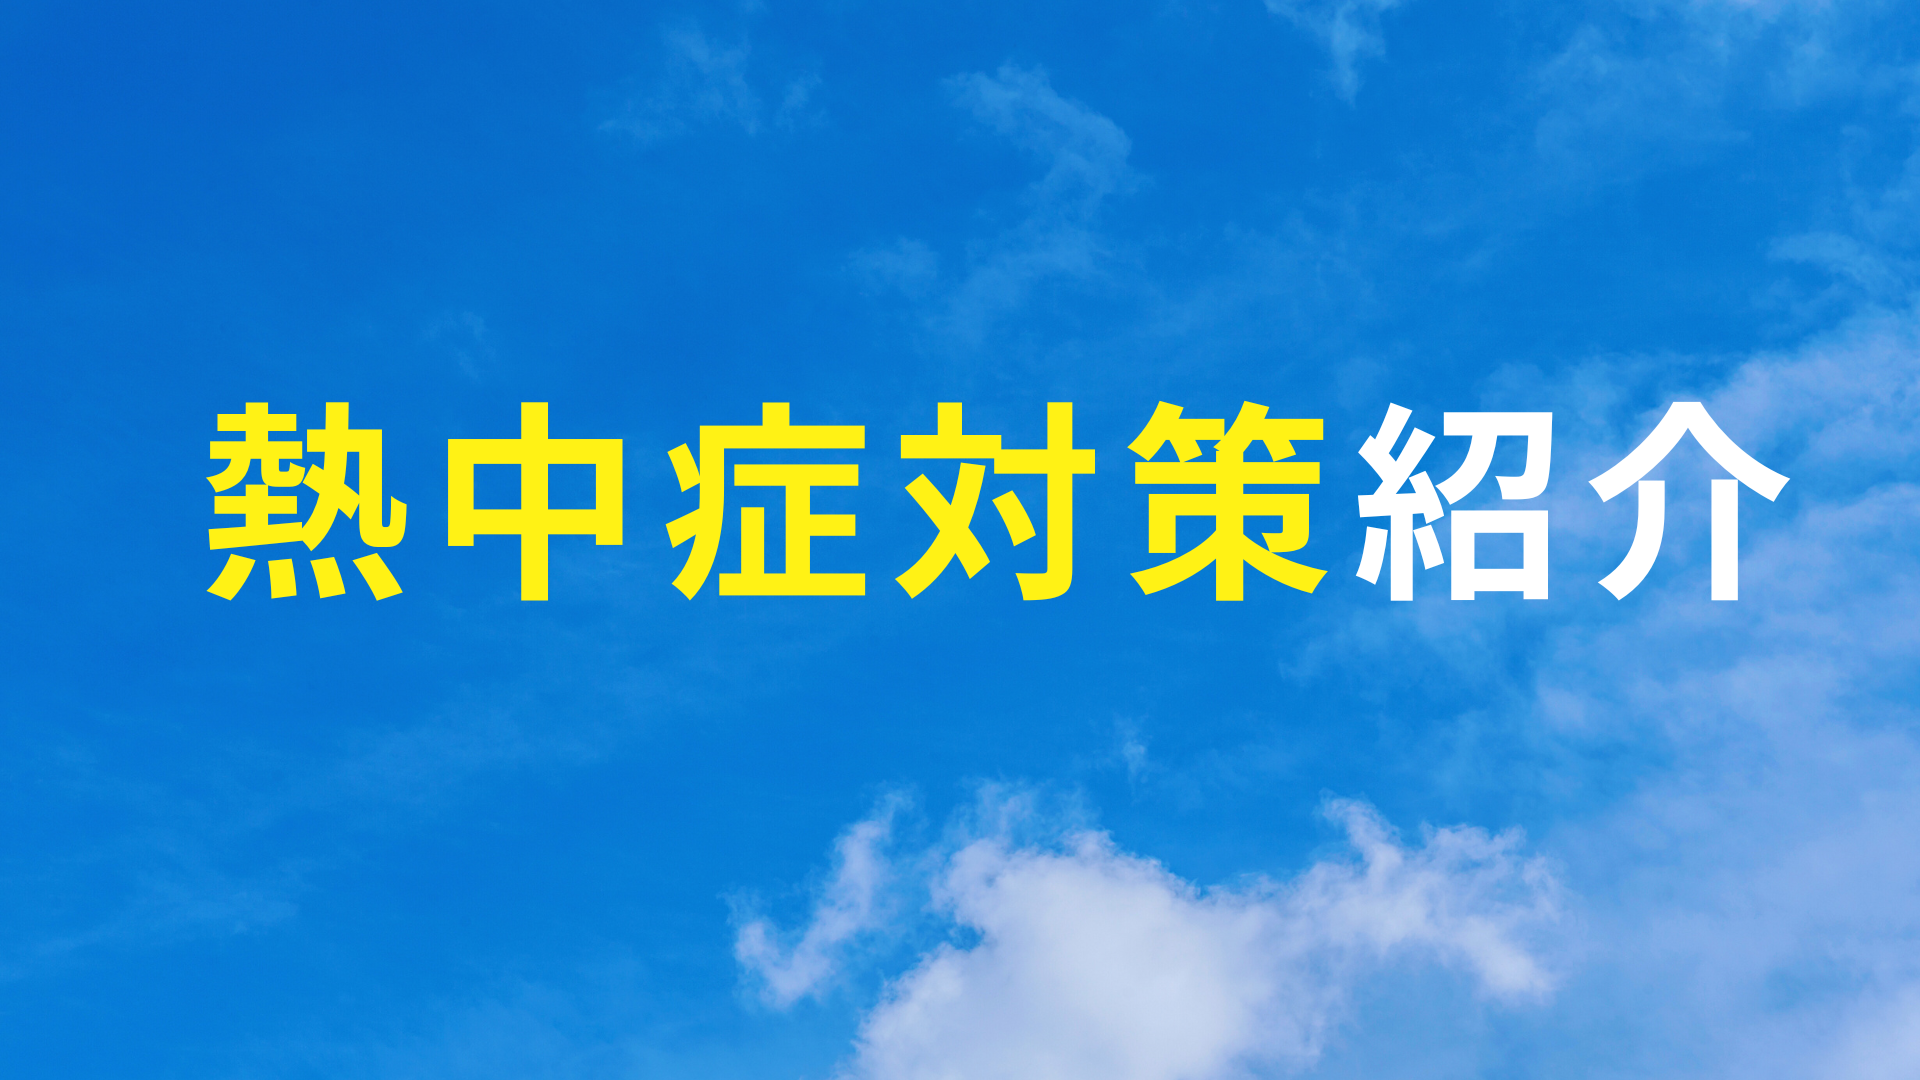
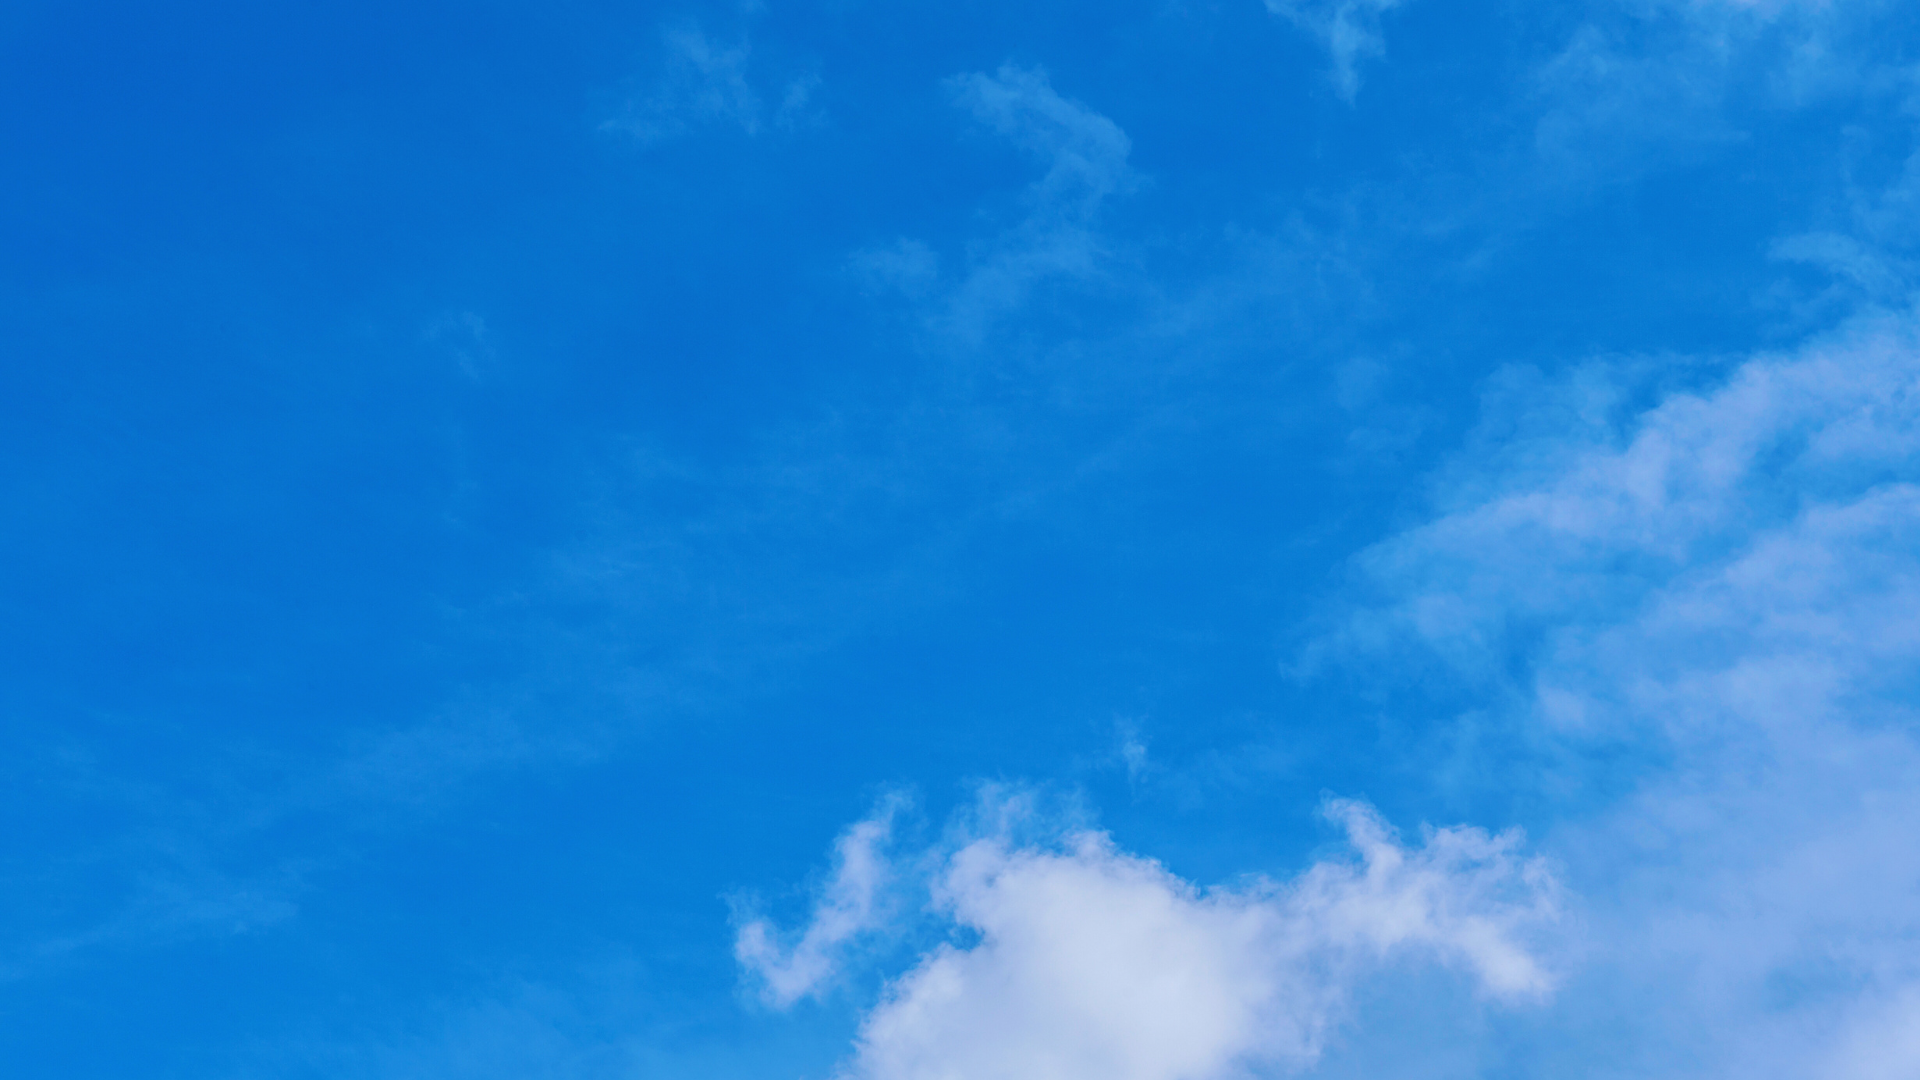
wbgt.tsの時間帯設定の修正

Changed region(s): [[0.0938, 0.3667, 0.9375, 0.5806]]

diff --git a/next/src/pages/api/wbgt.ts b/next/src/pages/api/wbgt.ts
@@ -28,8 +28,29 @@ export default async function handler(req: any, res: any) {
     const listWbgt = data.split('\n').map((line: string) => line.split(','))
 
     const currentHour = moment.tz('Asia/Tokyo').hour()
-    const targetDate = currentHour < 12 ? today : tomorrow
-    const targetTime = currentHour < 12 ? `${today}12` : `${tomorrow}12`
+    console.log(`${today}15`)
+    console.log(currentHour)
+    let targetDate = today // ここをletに変更
+    let targetTime = ''
+
+    if (currentHour >= 0 && currentHour < 3) {
+      targetDate = tomorrow
+      targetTime = `${tomorrow}03`
+    } else if (currentHour >= 3 && currentHour < 6) {
+      targetTime = `${today}06`
+    } else if (currentHour >= 6 && currentHour < 9) {
+      targetTime = `${today}09`
+    } else if (currentHour >= 9 && currentHour < 12) {
+      targetTime = `${today}12`
+    } else if (currentHour >= 12 && currentHour < 15) {
+      targetTime = `${today}15`
+    } else if (currentHour >= 15 && currentHour < 18) {
+      targetTime = `${today}18`
+    } else if (currentHour >= 18 && currentHour < 21) {
+      targetTime = `${today}21`
+    } else if (currentHour >= 21 && currentHour <= 23) {
+      targetTime = `${today}24`
+    }
 
     let targetColumn: number | null = null
     for (let col = 0; col < listWbgt[0].length; col++) {
@@ -57,7 +78,7 @@ export default async function handler(req: any, res: any) {
         } else if (wbgt < 31 * 10) {
           wbgtIndex = '厳重警戒'
         } else {
-          wbgtIndex = '危険 熱中症の危険性が高まっています'
+          wbgtIndex = '危険'
         }
         break
       }

diff --git a/next/src/pages/index.tsx b/next/src/pages/index.tsx
@@ -27,7 +27,26 @@ const bannerStyle = {
   borderRadius: '8px',
   marginBottom: '30px',
   position: 'relative',
-  height: '400px', // バナーの高さを設定
+  height: '400px',
+}
+
+const textStyle = {
+  position: 'absolute',
+  top: '50%',
+  left: '50%',
+  transform: 'translate(-50%, -50%)',
+  zIndex: 1,
+  fontSize: '100pt', // デフォルトのフォントサイズ
+  '@media (max-width: 1000px)': {
+    fontSize: '60pt', // タブレット用のフォントサイズ
+  },
+  '@media (max-width: 500px)': {
+    fontSize: '36pt', // スマホ用のフォントサイズ
+  },
+  fontWeight: 'bold',
+  textShadow: '2px 2px 4px rgba(0, 0, 0, 0.5)',
+  lineHeight: 1.2,
+  whiteSpace: 'nowrap',
 }
 
 const descriptionStyle = {
@@ -94,7 +113,12 @@ const Index: NextPage = () => {
       sx={{ px: { xs: 2, md: 4 }, mt: { xs: 4, md: 6 } }}
     >
       {/* バナー */}
-      <Box sx={bannerStyle}></Box>
+      <Box sx={bannerStyle}>
+        <Typography sx={textStyle}>
+          <span style={{ color: 'yellow' }}>熱中症対策</span>
+          <span style={{ color: 'white' }}>紹介</span>
+        </Typography>
+      </Box>
 
       <Box mt={4} sx={{ textAlign: 'center' }}>
         <Box mb={2}>
@@ -130,7 +154,7 @@ const Index: NextPage = () => {
           </Paper>
         </Box>
 
-        {data.wbgtIndex === '危険 熱中症の危険性が高まっています' && (
+        {data.wbgtIndex === '危険' && (
           <Box mt={2}>
             <Paper
               elevation={3}
